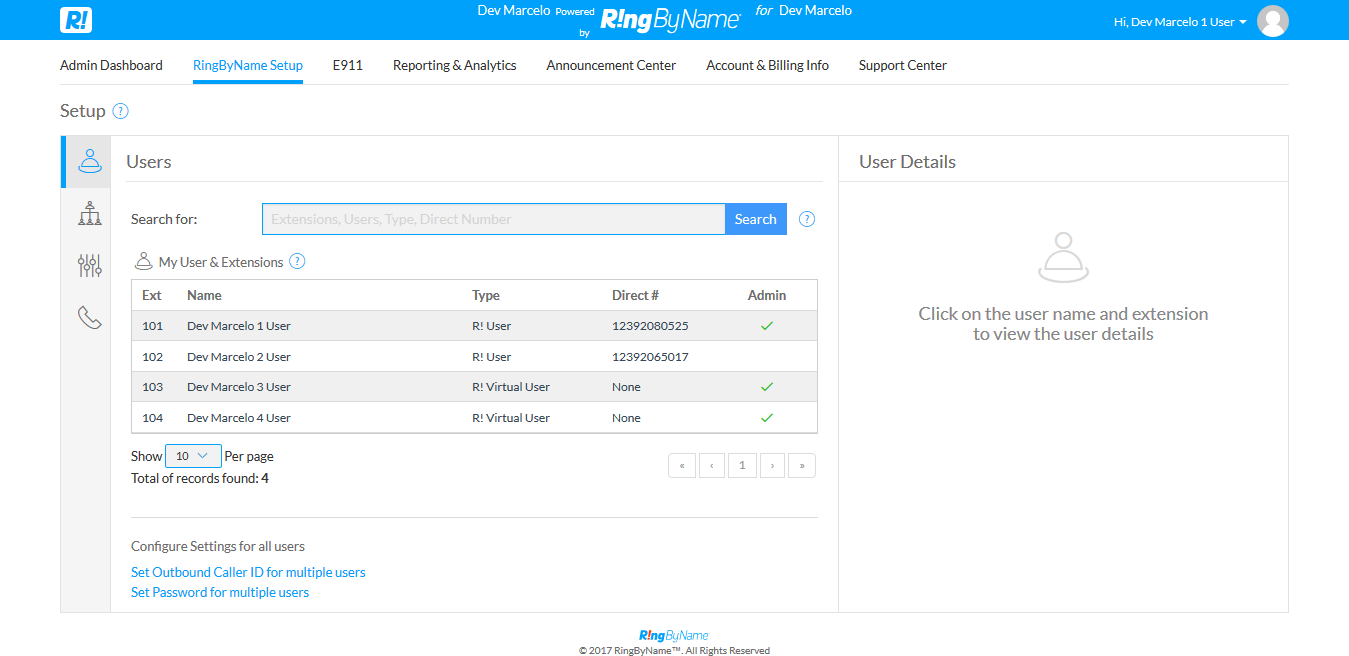
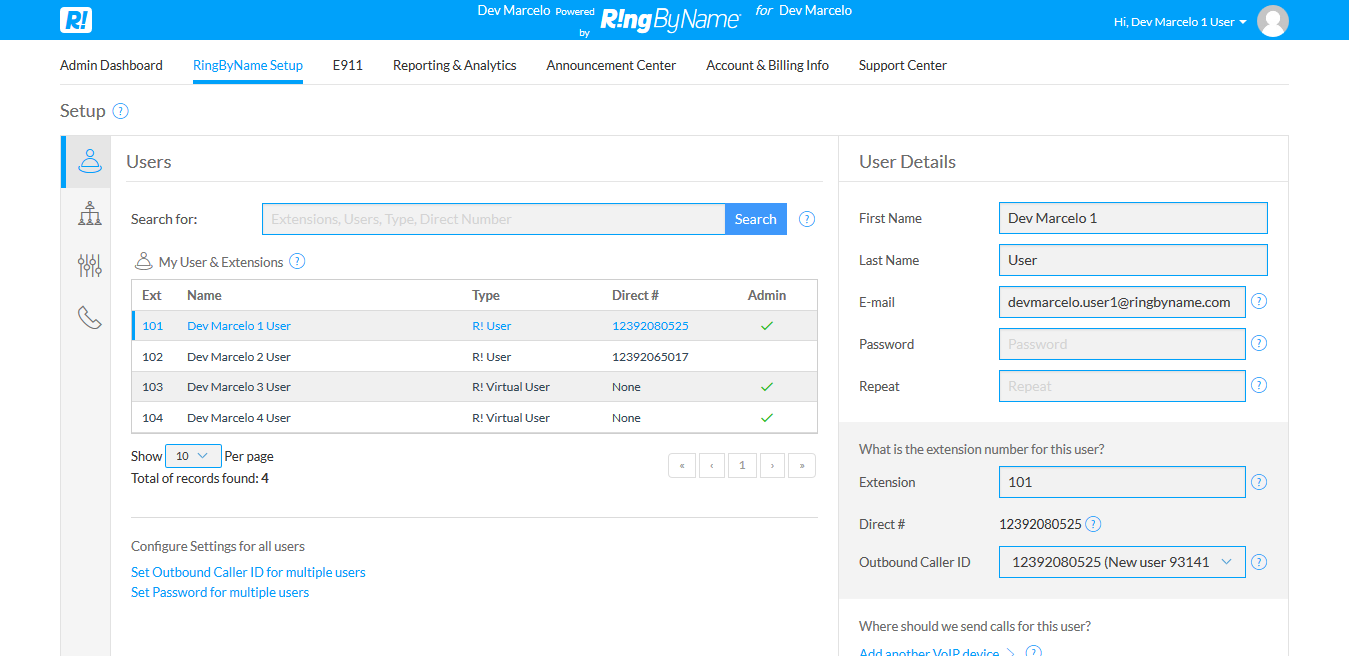
user details validator

diff --git a/spec/scenarios/admin/setup/users_admin_spec.rb b/spec/scenarios/admin/setup/users_admin_spec.rb
@@ -12,6 +12,31 @@ describe('validate Users Setup', :usersetup) do
     home.goto_admin
     admin_dashboard.wait_until_btn_continue_visible
     admin_dashboard.btn_continue.click
+
+    @user1 = {
+      extension: '101',
+      name: 'Dev Marcelo 1 User',
+      type: 'R! User',
+      direct: '12392080525'
+    }
+    @user2 = {
+      extension: '102',
+      name: 'Dev Marcelo 2 User',
+      type: 'R! User',
+      direct: '12392065017'
+    }
+    @user3 = {
+      extension: '103',
+      name: 'Dev Marcelo 3 User',
+      type: 'R! Virtual User',
+      direct: 'None'
+    }
+    @user4 = {
+      extension: '104',
+      name: 'Dev Marcelo 4 User',
+      type: 'R! Virtual User',
+      direct: 'None'
+    }
   end
 
   describe('validate users list', :userList) do
@@ -26,54 +51,44 @@ describe('validate Users Setup', :usersetup) do
         users.access_user_menu
       end
       e.step('then I check user list') do
-        @user1 = {
-          extension: '101',
-          name: 'Dev Marcelo 1 User',
-          type: 'R! User',
-          direct: '12392080525'
-        }
-        @user2 = {
-          extension: '102',
-          name: 'Dev Marcelo 2 User',
-          type: 'R! User',
-          direct: '12392065017'
-        }
-        @user3 = {
-          extension: '103',
-          name: 'Dev Marcelo 3 User',
-          type: 'R! Virtual User',
-          direct: 'None'
-        }
-        @user4 = {
-          extension: '104',
-          name: 'Dev Marcelo 4 User',
-          type: 'R! Virtual User',
-          direct: 'None'
-        }
-
         expect(users.is_user_in_grid(@user1)).to eql true
-        expect(users.is_user_in_grid(@user2)).to eql true 
-        expect(users.is_user_in_grid(@user3)).to eql true 
-        expect(users.is_user_in_grid(@user4)).to eql true  
-       
-        expect(users.info_total_records.text).to eql '4'
+        expect(users.is_user_in_grid(@user2)).to eql true
+        expect(users.is_user_in_grid(@user3)).to eql true
+        expect(users.is_user_in_grid(@user4)).to eql true
 
+        expect(users.info_total_records.text).to eql '4'
       end
     end
   end
-  # describe('validate users details', :user_details) do
-  #   it('validate user information') do |e|
-  #     e.step('when I on users setup') do
-  #       admin_dashboard.options.admin_setup.click
-  #     end
-  #     e.step('and I select the first user') do
-  #       find('article.ng-scope:nth-child(1)').click
-  #     end
-  #     e.step('then I check user informations') do
-
-  #     end
-  #   end
-  # end
+  describe('validate users details', :user_details) do
+    it('validate user information') do |e|
+      e.step('when I on users setup') do
+        admin_dashboard.options.admin_setup.click
+      end
+      e.step('and I select the first user') do
+        users.select_user_in_grid(@user1)
+      end
+      e.step('then I check user informations') do
+        @user = {
+          first_name: 'Dev Marcelo 1',
+          last_name: 'User',
+          email: 'devmarcelo.user1@ringbyname.com',
+          extension: '101',
+          direct_number: '12392080525',
+          outbound_caller_id: '12392080525 (New user 9314129)',
+          voicemail_password: '1234'
+        }
+        expect(users.details.txt_first_name.text.include?(@user[:first_name]))
+        expect(users.details.txt_last_name.text.include?(@user[:last_name]))
+        expect(users.details.txt_email.text.include?(@user[:email]))
+        expect(users.details.txt_extension.text.include?(@user[:extension]))
+        expect(users.details.txt_direct_number.text.include?(@user[:direct_number]))
+        expect(users.details.select_outbound_caller_id.text.include?(@user[:outbound_caller_id]))
+       
+        expect(users.details.txt_voicemail_password.texte.include?(@user[:voicemail_password]))
+      end
+    end
+  end
 
   after(:each) do |e|
     e.attach_file('screenshot', get_screenshot)

diff --git a/spec/pages/admin/setup/users.rb b/spec/pages/admin/setup/users.rb
@@ -26,8 +26,7 @@ class User < SitePrism::Page
 
   #validate each line of grid
   def is_user_in_grid(user)
-   
-
+   self.wait_until_grid_rows_visible
     grid_rows.each do |u|
       if u.text.include?(user[:extension]) && u.text.include?(user[:name]) && u.text.include?(user[:type]) && u.text.include?(user[:direct])
        return true
@@ -35,4 +34,18 @@ class User < SitePrism::Page
     end
     return false
   end
+
+  def select_user_in_grid(user)
+    self.wait_until_grid_rows_visible
+    grid_rows.each do |u|
+      if u.text.include?(user[:extension]) && u.text.include?(user[:name]) && u.text.include?(user[:type]) && u.text.include?(user[:direct])
+       u.click
+      end
+    end 
+  end
+
+  def validate_user_details(user)
+    self.details.txt_first_name.text.include?(user[:firstName])
+  end
+
 end

diff --git a/spec/spec_helper.rb b/spec/spec_helper.rb
@@ -9,7 +9,7 @@ require 'logger'
 
 require_relative 'helpers'
 require_relative 'object_factory'
-require_relative 'config'
+#require_relative 'config'
 
 RSpec.configure do |config|
   config.expect_with :rspec do |expectations|
@@ -31,7 +31,7 @@ RSpec.configure do |config|
 end
 
 $browser = 'firefox'
-$environment = 'marcelo.dev'
+$environment = 'marcelo'
 $branch = 'current'
 
 Capybara.register_driver :selenium do |app|
@@ -46,8 +46,9 @@ end
 
 Capybara.configure do |c|
   c.default_driver = :selenium
+
   if $environment != 'production'
-    $url = c.app_host   = "http://login.#{$environment}.ringbyname.com/#{$branch}"
+    $url = c.app_host   = "http://login.#{$environment}.dev.ringbyname.com/#{$branch}"
   else
     $url = c.app_host   = "http://login.ringbyname.com"
   end
